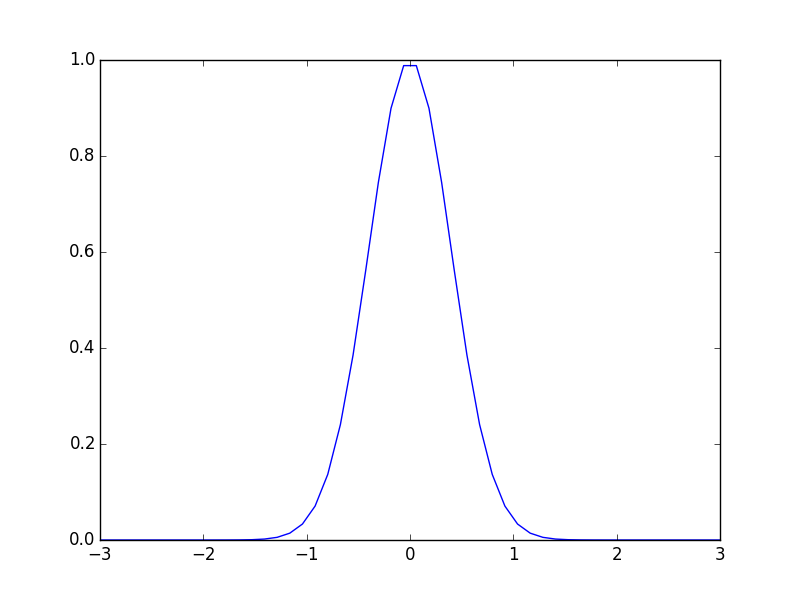
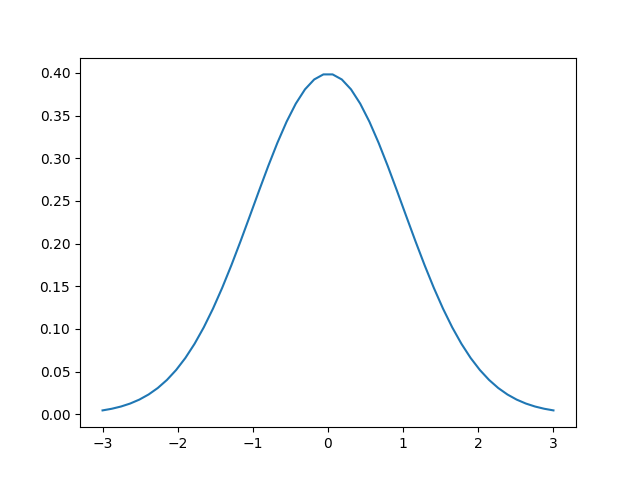
-

diff --git a/stat/stat_005_intro/olasilik_dagilimlar_giris.html b/stat/stat_005_intro/olasilik_dagilimlar_giris.html
@@ -108,23 +108,29 @@ plt.savefig('stat_intro_09.png')
 <p>Giriş konularını teker teker işlemeden önce derinleme bir dalış yapıp tüm
 kavramlara değinelim. İstatistiğin temel öğelerinden biri yoğunluk fonksiyonudur
 (probability density function), mesela</p>
-<p>$$ f(x) = e^{-\pi x^2} $$</p>
-<p>Pek çok farklı yoğunluk fonksiyonu vardır, hangisinin hangi tür veriye uyacağını
-bulmak istatistikçinin önemli işlerinden. Her tür dağılımın kendine has bir
-yoğunluğu var, yoğunluk çok boyutlu da olabilir. Bir yoğunluk fonksiyonun
-x-ekseni üzerindeki alanı her zaman 1'e eşit olmalıdır (yani yoğunluğun
-$-\infty,\infty$ üzerinden entegrali her zaman 1 sonucunu vermeli). Olasılık
-teorisinin işlemesi için bu gerekli.</p>
+<p>$$
+f(x)=N \cdot e^{-\frac{(x-\mu)^2}{2\sigma^2}}
+$$</p>
+<p>ki $N$ normalize edici bir faktör, $\frac{1}{\sqrt{2\pi\sigma^2}}$. Pek çok
+farklı yoğunluk fonksiyonu vardır, hangisinin hangi tür veriye uyacağını bulmak
+istatistikçinin önemli işlerinden. Her tür dağılımın kendine has bir yoğunluğu
+var, yoğunluk çok boyutlu da olabilir. Bir yoğunluk fonksiyonun x-ekseni
+üzerindeki alanı her zaman 1'e eşit olmalıdır (yani yoğunluğun $-\infty,\infty$
+üzerinden entegrali her zaman 1 sonucunu vermeli). Olasılık teorisinin işlemesi
+için bu gerekli.</p>
 <p>Yoğunluk fonksiyonları doğadan gelen bir tek ölçümü alırlar, boy, kilo gibi, ve
 onun 'olasılık yoğunluğunu' hesaplarlar. Üstteki örnek için mesela 3 ve 1
 değerlerinin olasılığını hesaplayalım,</p>
-<pre><code class="python">def f(x): return np.exp(-np.pi * x**2)
-print '3 icin', f(3)
-print '1 icin', f(1)
+<pre><code class="python">mu = 0
+sigma = 1  
+def f(x): return (1 / (np.sqrt(2 * np.pi * np.power(sigma, 2)))) * \
+    (np.power(np.e, -(np.power((x - mu), 2) / (2 * np.power(sigma, 2)))))
+print ('3 icin', f(3))
+print ('1 icin', f(1))
 </code></pre>
 
-<pre><code>3 icin 5.25548517601e-13
-1 icin 0.0432139182638
+<pre><code>3 icin 0.004431848411938008
+1 icin 0.24197072451914337
 </code></pre>
 
 <p>1 değeri 3'ten daha düşük -- çünkü bu 0 merkezli bir yoğunluk fonksiyonu, sıfıra
@@ -133,16 +139,31 @@ böyle. Eğer tüm olası değerleri $x$'e verip grafiklesek,</p>
 <pre><code class="python">x = np.array(np.linspace(-3,3,num=50))
 y = f(x)
 plt.plot(x,y)
-plt.hold(False)
 plt.savefig('stat_intro_03.png')
-plt.hold(False)
 </code></pre>
 
 <p><img alt="" src="stat_intro_03.png" /></p>
 <p>Dikkat: yoğunluk fonksiyonu olasılık değildir; bazı yoğunluk değerleri 1'den
 fazla değerler verebilir. Sürekli yoğunluk fonksiyonları için olasılık bir
 entegral olarak hesaplanmalıdır, ki daha önce söylediğimiz gibi tüm fonksiyon
-alanı 1'dır.</p>
+alanı 1'dır. Altta bir normal dağılım yoğunluk fonksiyonu solda, onun entegrali
+kumulatif dağılım fonksiyonu (CDF) sağda. </p>
+<p><img alt="" src="stat_intro_11.png" /></p>
+<p>CDF bize mesela üstteki grafikte değerin 0 ila 1.5 arasında olma <em>olasılığını</em>
+veriyor. Bu hesabı direk CDF fonksiyonu üzerinde yapabilirdik, bunun için
+yazılım paketlerinde muhakkak bir çağri olur, mesela</p>
+<pre><code class="python">import scipy.stats
+print (scipy.stats.norm.cdf(1.5,0,1))
+</code></pre>
+
+<pre><code>0.9331927987311419
+</code></pre>
+
+<p>1'ye yakın oldukca büyük bir sayı, grafiğe uygun. CDF her zaman 0'dan sorulan
+değere kadar olan alanı verir, tüm alanın 1 olması bilgisinden hareketle bu
+öğeler biraraya koyulup ek sonuçlara varılabilir, mesela değerin 1.5'tan büyük
+olma olasılığı için 1-CDF(1.5). -2 ile 2 arası olma olasılı için CDF(2)-CDF(-2).</p>
+<p>Veriden Fonksiyon</p>
 <p>Şimdi mesela elimizde bir grup kişinin 68 kiloya ne kadar yakın / uzak
 olduğunun verisi var (68'ten az olanlar eksi değerli olacak tabii). Veriyi
 grafikleyelim,</p>

diff --git a/stat/stat_005_intro/stat_005_intro.html b/stat/stat_005_intro/stat_005_intro.html
@@ -108,23 +108,29 @@ plt.savefig('stat_intro_09.png')
 <p>Giriş konularını teker teker işlemeden önce derinleme bir dalış yapıp tüm
 kavramlara değinelim. İstatistiğin temel öğelerinden biri yoğunluk fonksiyonudur
 (probability density function), mesela</p>
-<p>$$ f(x) = e^{-\pi x^2} $$</p>
-<p>Pek çok farklı yoğunluk fonksiyonu vardır, hangisinin hangi tür veriye uyacağını
-bulmak istatistikçinin önemli işlerinden. Her tür dağılımın kendine has bir
-yoğunluğu var, yoğunluk çok boyutlu da olabilir. Bir yoğunluk fonksiyonun
-x-ekseni üzerindeki alanı her zaman 1'e eşit olmalıdır (yani yoğunluğun
-$-\infty,\infty$ üzerinden entegrali her zaman 1 sonucunu vermeli). Olasılık
-teorisinin işlemesi için bu gerekli.</p>
+<p>$$
+f(x)=N \cdot e^{-\frac{(x-\mu)^2}{2\sigma^2}}
+$$</p>
+<p>ki $N$ normalize edici bir faktör, $\frac{1}{\sqrt{2\pi\sigma^2}}$. Pek çok
+farklı yoğunluk fonksiyonu vardır, hangisinin hangi tür veriye uyacağını bulmak
+istatistikçinin önemli işlerinden. Her tür dağılımın kendine has bir yoğunluğu
+var, yoğunluk çok boyutlu da olabilir. Bir yoğunluk fonksiyonun x-ekseni
+üzerindeki alanı her zaman 1'e eşit olmalıdır (yani yoğunluğun $-\infty,\infty$
+üzerinden entegrali her zaman 1 sonucunu vermeli). Olasılık teorisinin işlemesi
+için bu gerekli.</p>
 <p>Yoğunluk fonksiyonları doğadan gelen bir tek ölçümü alırlar, boy, kilo gibi, ve
 onun 'olasılık yoğunluğunu' hesaplarlar. Üstteki örnek için mesela 3 ve 1
 değerlerinin olasılığını hesaplayalım,</p>
-<pre><code class="python">def f(x): return np.exp(-np.pi * x**2)
-print '3 icin', f(3)
-print '1 icin', f(1)
+<pre><code class="python">mu = 0
+sigma = 1  
+def f(x): return (1 / (np.sqrt(2 * np.pi * np.power(sigma, 2)))) * \
+    (np.power(np.e, -(np.power((x - mu), 2) / (2 * np.power(sigma, 2)))))
+print ('3 icin', f(3))
+print ('1 icin', f(1))
 </code></pre>
 
-<pre><code>3 icin 5.25548517601e-13
-1 icin 0.0432139182638
+<pre><code>3 icin 0.004431848411938008
+1 icin 0.24197072451914337
 </code></pre>
 
 <p>1 değeri 3'ten daha düşük -- çünkü bu 0 merkezli bir yoğunluk fonksiyonu, sıfıra
@@ -133,16 +139,31 @@ böyle. Eğer tüm olası değerleri $x$'e verip grafiklesek,</p>
 <pre><code class="python">x = np.array(np.linspace(-3,3,num=50))
 y = f(x)
 plt.plot(x,y)
-plt.hold(False)
 plt.savefig('stat_intro_03.png')
-plt.hold(False)
 </code></pre>
 
 <p><img alt="" src="stat_intro_03.png" /></p>
 <p>Dikkat: yoğunluk fonksiyonu olasılık değildir; bazı yoğunluk değerleri 1'den
 fazla değerler verebilir. Sürekli yoğunluk fonksiyonları için olasılık bir
 entegral olarak hesaplanmalıdır, ki daha önce söylediğimiz gibi tüm fonksiyon
-alanı 1'dır.</p>
+alanı 1'dır. Altta bir normal dağılım yoğunluk fonksiyonu solda, onun entegrali
+kumulatif dağılım fonksiyonu (CDF) sağda. </p>
+<p><img alt="" src="stat_intro_11.png" /></p>
+<p>CDF bize mesela üstteki grafikte değerin 0 ila 1.5 arasında olma <em>olasılığını</em>
+veriyor. Bu hesabı direk CDF fonksiyonu üzerinde yapabilirdik, bunun için
+yazılım paketlerinde muhakkak bir çağri olur, mesela</p>
+<pre><code class="python">import scipy.stats
+print (scipy.stats.norm.cdf(1.5,0,1))
+</code></pre>
+
+<pre><code>0.9331927987311419
+</code></pre>
+
+<p>1'ye yakın oldukca büyük bir sayı, grafiğe uygun. CDF her zaman 0'dan sorulan
+değere kadar olan alanı verir, tüm alanın 1 olması bilgisinden hareketle bu
+öğeler biraraya koyulup ek sonuçlara varılabilir, mesela değerin 1.5'tan büyük
+olma olasılığı için 1-CDF(1.5). -2 ile 2 arası olma olasılı için CDF(2)-CDF(-2).</p>
+<p>Veriden Fonksiyon</p>
 <p>Şimdi mesela elimizde bir grup kişinin 68 kiloya ne kadar yakın / uzak
 olduğunun verisi var (68'ten az olanlar eksi değerli olacak tabii). Veriyi
 grafikleyelim,</p>
